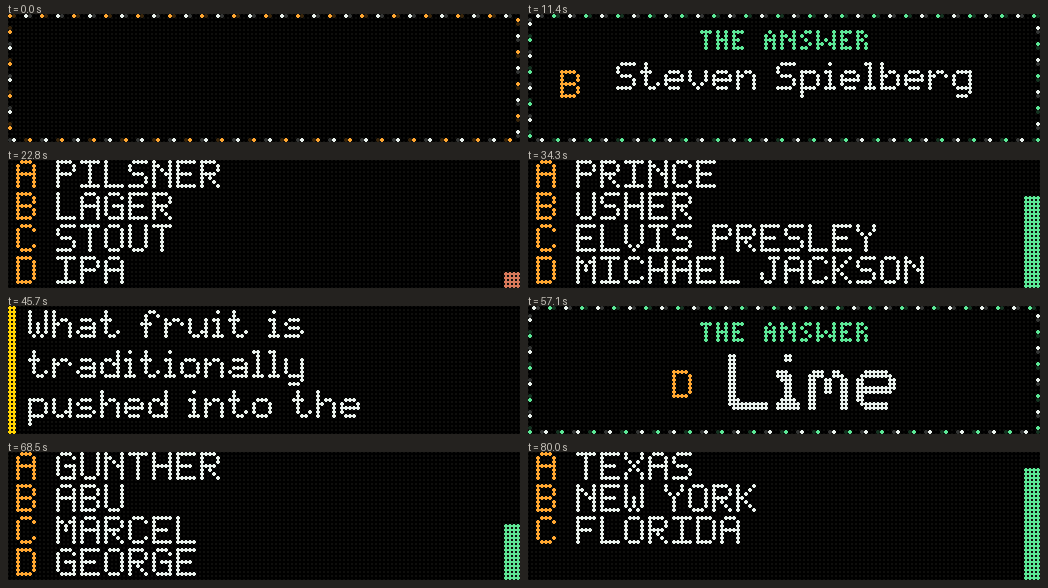
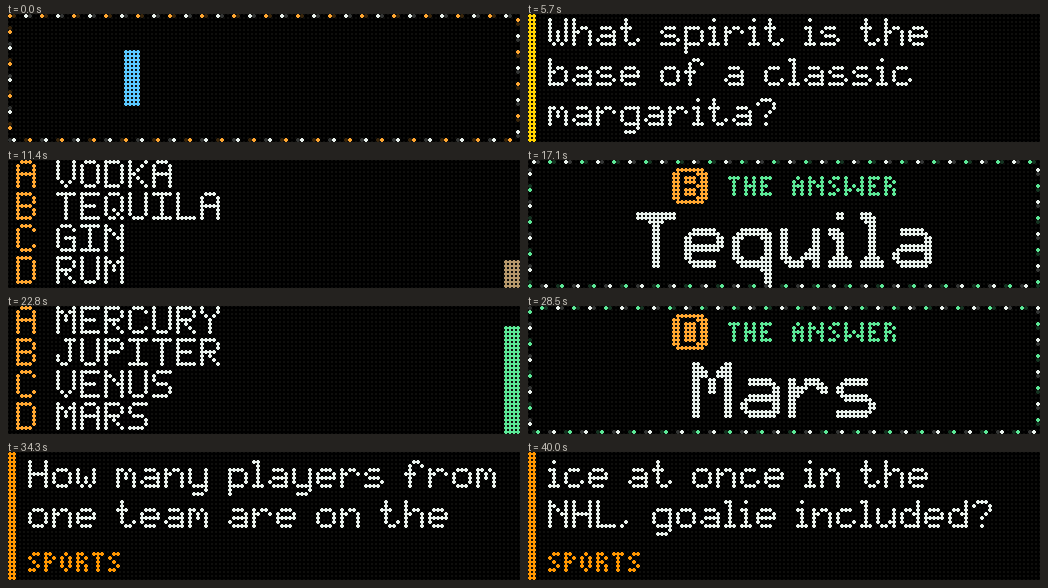
bar_trivia 1.3.0: balanced, centred question pages and a proper answer header
Lines are wrapped evenly and pages share them out (4 lines read 2 + 2, never 3 + 1),
short questions sit centred above their category, and the answer letter is an amber
tile in a header with plenty of room instead of a letter beside the answer.

diff --git a/plugins/bar_trivia/plugin.py b/plugins/bar_trivia/plugin.py
@@ -54,9 +54,10 @@ MAX_QUESTION = 200    # characters; four pages of two lines is already twelve se
 POOL = 90
 LETTERS = "ABCD"
 MAX_PAGES = 3
+BADGE = 9   # the answer letter's tile
 REVEAL = 5.0
-LINES, LINE_HEIGHT, PAGE_HEIGHT = 3, 10, 29   # three lines of 5x7 lowercase fill the panel
-TEXT_X, TEXT_WIDTH = 5, 120                   # the category stripe takes the first two columns
+LINES, LINE_HEIGHT, PAGE_HEIGHT, LABEL_STRIP = 3, 10, 29, 7   # three lines of 5x7 lowercase fill the panel
+TEXT_X, TEXT_WIDTH = 5, 122                   # the category stripe takes the first two columns
 SLIDE = 0.28
 SPLASH_SPEED = 1.8   # the lettering's own timeline runs long; a splash should be a moment
 BAD_WORDS = ("picture", "pictured", "image", "photo", "shown", "pictured", "logo", "video", "listen", "audio")
@@ -88,7 +89,7 @@ def build_question(category, question, correct, wrong, rng):
 def fits(item):
     """Every answer on one line beside its letter, so nothing is ever cut off."""
     return (all(text_width(choice) <= ROOM for choice in item["choices"])
-            and len(question_lines(item["question"])) <= 3 * MAX_PAGES)
+            and len(wrap_text(item["question"], TEXT_WIDTH, 1, True)) <= 3 * MAX_PAGES - 1)
 
 
 def label_of(name):
@@ -215,21 +216,30 @@ class Feed(Provider):
 
 
 def question_lines(text):
-    """Whole-word lines that fit beside the category stripe, re-wrapped narrower when
-    the last page would otherwise hold a lone line."""
+    """Whole-word lines, balanced: the fewest lines the width allows, then as even as possible,
+    so a question never ends in a stub like "Corona?" under one long line."""
     lines = wrap_text(text, TEXT_WIDTH, 1, True)
-    if len(lines) > 3 and len(lines) % 3 == 1:
-        for width in range(TEXT_WIDTH - 4, 70, -4):
-            narrower = wrap_text(text, width, 1, True)
-            if len(narrower) % 3 != 1 and len(narrower) <= len(lines) + 2:
-                return narrower
-    return lines
+    best = lines
+    for width in range(TEXT_WIDTH - 2, 39, -2):
+        narrower = wrap_text(text, width, 1, True)
+        if len(narrower) != len(lines):
+            break
+        best = narrower
+    return best
 
 
 @lru_cache(maxsize=64)
 def pages_of(text):
+    """Pages of up to three lines, shared out evenly (4 lines read as 2 + 2, never 3 + 1)."""
     lines = question_lines(text)
-    return tuple(tuple(lines[i:i + LINES]) for i in range(0, len(lines), LINES))
+    count = -(-len(lines) // LINES)
+    base, extra = divmod(len(lines), count)
+    pages, at = [], 0
+    for number in range(count):
+        size = base + (number < extra)
+        pages.append(tuple(lines[at:at + size]))
+        at += size
+    return tuple(pages)
 
 
 def page_seconds(lines):
@@ -238,13 +248,18 @@ def page_seconds(lines):
 
 @lru_cache(maxsize=96)
 def page_image(lines, category):
-    """One page of the question, with its category in the corner when there is room."""
+    """One page of the question, centred in the space above its category name."""
     cell = Image.new("RGB", (128, PAGE_HEIGHT))
-    for index, line in enumerate(lines):
-        draw_text(cell, line, TEXT_X, index * LINE_HEIGHT, WHITE, mixed=True)
+    height = len(lines) * LINE_HEIGHT - 1
     if len(lines) < LINES:
+        room = PAGE_HEIGHT - LABEL_STRIP
         _, _, short, color = CATEGORIES[category]
         draw_tiny(cell, short, TEXT_X, PAGE_HEIGHT - 5, color)
+    else:
+        room = PAGE_HEIGHT
+    top = max(0, (room - height) // 2)
+    for index, line in enumerate(lines):
+        draw_text(cell, line, TEXT_X, top + index * LINE_HEIGHT, WHITE, mixed=True)
     return cell
 
 
@@ -369,22 +384,26 @@ class Trivia(Module):
     @staticmethod
     def _reveal(frame, item, local, t):
         bulb_border(frame, t, (GREEN, WHITE))
-        draw_tiny(frame, "THE ANSWER", (128 - tiny_width("THE ANSWER")) // 2, 4, GREEN)
+        fade = ease_out(local / .4)
         answer = item["choices"][item["answer"]]
-        letter = LETTERS[item["answer"]]
-        color = mix((0, 0, 0), WHITE, ease_out(local / .4))
-        gold = mix((0, 0, 0), AMBER, ease_out(local / .4))
-        gap = 9
-        if text_width(answer, 2, True) + 5 + gap <= 120:
-            x = (128 - (5 + gap + text_width(answer, 2, True))) // 2
-            draw_text(frame, letter, x, 16, gold)
-            draw_text(frame, answer, x + 5 + gap, 12, color, 2, True, True)
+        # Header: the letter on an amber tile, then "THE ANSWER", centred as one group.
+        label = "THE ANSWER"
+        left = (128 - (BADGE + 5 + tiny_width(label))) // 2
+        frame.paste(AMBER, (left, 2, left + BADGE, 2 + BADGE))
+        for corner in ((left, 2), (left + BADGE - 1, 2), (left, 1 + BADGE), (left + BADGE - 1, 1 + BADGE)):
+            frame.putpixel(corner, (0, 0, 0))
+        draw_text(frame, LETTERS[item["answer"]], left + 2, 3, (0, 0, 0))
+        draw_tiny(frame, label, left + BADGE + 5, 4, GREEN)
+        color = mix((0, 0, 0), WHITE, fade)
+        if text_width(answer, 2, True) <= 120:
+            # Letters that hang below the line (g, p, y) need the extra row, or they touch the border.
+            hangs = any(c in "gjpqy,;" for c in answer)
+            draw_text(frame, answer, (128 - text_width(answer, 2, True)) // 2, 13 if hangs else 14, color, 2, True, True)
             return
-        lines = wrap_text(answer, 100, 1, True)[:2]
-        top = 12 if len(lines) == 1 else 10
-        draw_text(frame, letter, 8, 14, gold)
+        lines = wrap_text(answer, 120, 1, True)[:2]
+        top = 16 if len(lines) == 1 else 13
         for number, line in enumerate(lines):
-            draw_text(frame, line, 8 + 5 + gap, top + number * 9, color, mixed=True)
+            draw_text(frame, line, (128 - text_width(line, 1, True)) // 2, top + number * 9, color, mixed=True)
 
 
 def validate(settings):

diff --git a/plugins/bar_trivia/tests/test_bar_trivia.py b/plugins/bar_trivia/tests/test_bar_trivia.py
@@ -27,17 +27,19 @@ class BarTrivia(unittest.TestCase):
         self.assertIsNone(trivia.build_question("Film", "Name it?", "A very long answer indeed here",
                                                 ["B", "C", "D"], rng))
 
-    def test_pages_fill_the_panel_and_never_end_on_an_orphan_line(self):
+    def test_pages_are_even_and_never_end_on_a_stub(self):
         long = ("Which of these famous explorers was the first European to reach the Pacific Ocean "
                 "after crossing the Isthmus of Panama in the early sixteenth century?")
-        for text in (long, "Which Disney movie features the song Let It Go?", "Who directed Jaws?"):
+        four = "What fruit is traditionally pushed into the neck of a Corona?"
+        for text in (long, four, "Which Disney movie features the song Let It Go?", "Who directed Jaws?"):
             pages = trivia.pages_of(text)
-            self.assertTrue(all(len(page) == 3 for page in pages[:-1]))
-            if len(pages) > 1:
-                self.assertGreater(len(pages[-1]), 1, text)
+            sizes = [len(page) for page in pages]
+            self.assertTrue(all(1 <= size <= 3 for size in sizes), sizes)
+            self.assertLessEqual(max(sizes) - min(sizes), 1, (text, sizes))
             for page in pages:
                 for line in page:
                     self.assertLessEqual(trivia.text_width(line, 1, True), trivia.TEXT_WIDTH)
+        self.assertEqual([len(p) for p in trivia.pages_of(four)], [2, 2])
 
 
 class PerFrameCost(unittest.TestCase):
